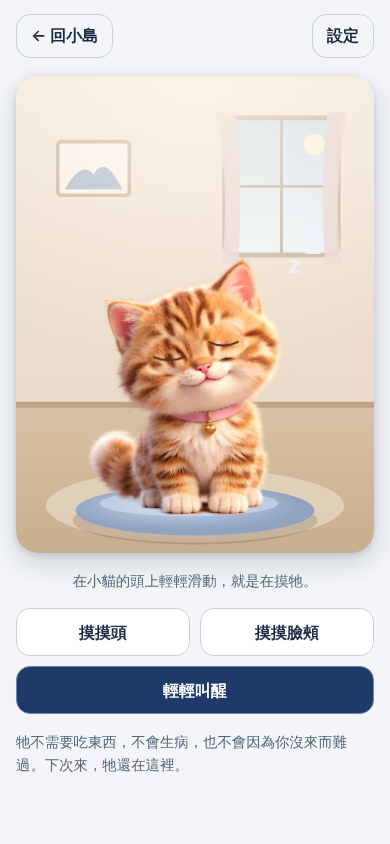
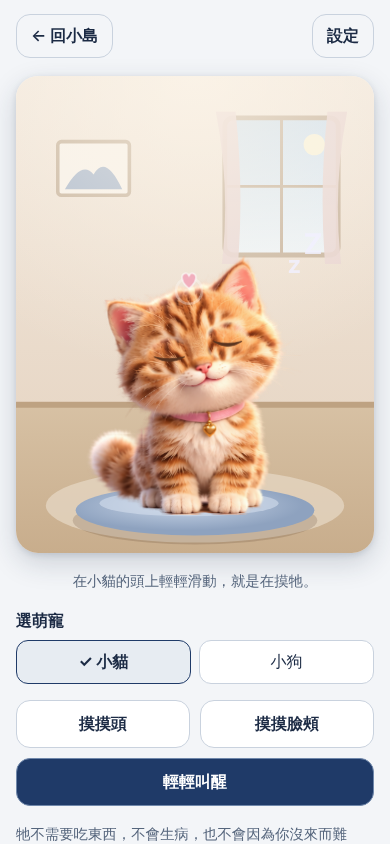
fix(companion): natural closed and smiling eyes
- Re-measure each eye (incl. dark rim) from the images; the cat's right
  eye was ~6 units off-centre
- Borrow the covering fur from fully above each eye (per-eye offset), so
  no part of the open eye shows through
- Draw closed eyes as tapered crescents; the happy ^ now peaks near the
  eye centre instead of floating like an eyebrow

Claude-Session: https://claude.ai/code/session_01Jd1MLeqydxjbdWgjn7akAn

diff --git a/src/features/companion/PetRig.tsx b/src/features/companion/PetRig.tsx
@@ -4,12 +4,13 @@ import { PET_IMAGE } from '../energy/ui/components/PetFigure';
 import type { Action, Mood, Reaction } from './useCompanionMood';
 
 // 2.5D 萌寵：同一張已核准的去背圖，以 clipPath 切成頭、身體、尾巴三層，
-// 分別繞關節點轉動；眼皮用同一張圖往下移的毛色蓋住眼睛，只用來眨眼、瞇眼與睡覺。不重繪、不換角色。
-interface Eye { cx: number; cy: number; rx: number; ry: number }
+// 分別繞關節點轉動；眼皮用同一張圖眼睛上方的毛色蓋住眼睛，只用來眨眼、瞇眼與睡覺。不重繪、不換角色。
+// 眼睛範圍依實際圖片量測（含深色眼眶）；from 是借用毛色的位移，必須讓借來的區域完全在眼睛上方。
+interface Eye { cx: number; cy: number; rx: number; ry: number; from: readonly [number, number] }
 interface RigSpec {
   x: number; y: number; // 在房間（600×800）裡的位置
   head: string; body: string; tail: string; // clip 多邊形（圖片座標）
-  eyes: readonly Eye[]; lidShift: number; lidPad: [number, number]; lidStroke: string; lidWidth: number;
+  eyes: readonly Eye[]; lidPad: readonly [number, number]; lidColor: string;
   // 觸摸區域：頭部橢圓與左右臉頰的分界
   headArea: { cx: number; cy: number; rx: number; ry: number; cheekY: number; cheekLeftX: number; cheekRightX: number; bodyY: number };
   origins: { breath: string; head: string; tail: string }; // CSS transform-origin
@@ -21,8 +22,8 @@ export const RIGS: Record<Pet, RigSpec> = {
     head: '0,0 361,0 361,252 262,262 200,286 128,282 0,262',
     body: '0,236 361,236 361,436 92,436 92,300 0,300',
     tail: '0,292 98,292 98,425 0,425',
-    eyes: [{ cx: 138, cy: 170, rx: 30, ry: 26 }, { cx: 229, cy: 146, rx: 28, ry: 26 }],
-    lidShift: 52, lidPad: [11, 9], lidStroke: '#5a3420', lidWidth: 3.5,
+    eyes: [{ cx: 138, cy: 171, rx: 29, ry: 24, from: [0, 62] }, { cx: 236, cy: 146, rx: 27, ry: 25, from: [18, 62] }],
+    lidPad: [13, 10], lidColor: '#5a3420',
     headArea: { cx: 190, cy: 150, rx: 150, ry: 125, cheekY: 175, cheekLeftX: 125, cheekRightX: 255, bodyY: 250 },
     origins: { breath: '190px 430px', head: '195px 268px', tail: '85px 385px' },
   },
@@ -32,8 +33,8 @@ export const RIGS: Record<Pet, RigSpec> = {
     head: '0,0 373,0 373,200 300,200 278,212 220,224 165,214 140,212 0,212',
     body: '0,190 373,190 373,436 0,436 0,404 78,404 82,372 90,350 90,270 0,270',
     tail: '0,270 90,270 90,350 82,372 78,404 0,404',
-    eyes: [{ cx: 170, cy: 111, rx: 14, ry: 16 }, { cx: 252, cy: 99, rx: 14, ry: 16 }],
-    lidShift: 34, lidPad: [7, 9], lidStroke: '#4a2c18', lidWidth: 2.6,
+    eyes: [{ cx: 170, cy: 108, rx: 15, ry: 13, from: [0, 40] }, { cx: 253, cy: 96, rx: 14, ry: 13, from: [0, 40] }],
+    lidPad: [7, 7], lidColor: '#4a2c18',
     headArea: { cx: 215, cy: 115, rx: 160, ry: 115, cheekY: 125, cheekLeftX: 150, cheekRightX: 280, bodyY: 205 },
     origins: { breath: '186px 430px', head: '220px 222px', tail: '88px 380px' },
   },
@@ -55,7 +56,18 @@ export function regionAt(x: number, y: number, pet: Pet = 'cat'): Region {
   return cy > a.bodyY ? 'body' : null;
 }
 
-// 眼皮：把同一張圖往下移，讓眼睛上方的真實毛色蓋住眼睛，再以羽化遮罩融入周圍，最後畫上閉眼的線。
+// 閉眼線畫成兩端尖、中間粗的彎月形，比等粗的線自然。
+// 開心是「^」笑眼，弧頂略高於眼睛中心；睡覺與眨眼是往下彎的「‿」。
+function closedEye(eye: Eye, happy: boolean) {
+  const half = eye.rx * 0.88; const t = eye.ry * 0.2;
+  const left = eye.cx - half; const right = eye.cx + half;
+  const [endY, ctrlY, inner] = happy
+    ? [eye.cy + eye.ry * 0.12, eye.cy - eye.ry * 0.78, 2 * t]
+    : [eye.cy - eye.ry * 0.05, eye.cy + eye.ry * 0.6, -2 * t];
+  return `M ${left} ${endY} Q ${eye.cx} ${ctrlY} ${right} ${endY} Q ${eye.cx} ${ctrlY + inner} ${left} ${endY} Z`;
+}
+
+// 眼皮：借用眼睛上方的真實毛色蓋住眼睛，以羽化遮罩融入周圍，再畫上閉眼線。
 function Lids({ pet, mood, blink }: { pet: Pet; mood: Mood; blink: boolean }) {
   if (mood === 'idle' && !blink) return null;
   const rig = RIGS[pet]; const image = PET_IMAGE[pet];
@@ -63,17 +75,12 @@ function Lids({ pet, mood, blink }: { pet: Pet; mood: Mood; blink: boolean }) {
   return (
     <g className="rig-lids">
       {rig.eyes.map((eye, i) => {
-        const inset = eye.rx * 0.13;
-        const left = eye.cx - eye.rx + inset; const right = eye.cx + eye.rx - inset;
-        const line = happy
-          ? `M ${left} ${eye.cy + eye.ry * 0.23} Q ${eye.cx} ${eye.cy - eye.ry * 0.55} ${right} ${eye.cy + eye.ry * 0.23}`
-          : `M ${left} ${eye.cy} Q ${eye.cx} ${eye.cy + eye.ry * 0.45} ${right} ${eye.cy}`;
         return (
           <g key={eye.cx}>
             <g mask={`url(#rig-${pet}-eye-mask-${i})`}>
-              <image href={image.src} width={image.width} height={image.height} transform={`translate(0 ${rig.lidShift})`} />
+              <image href={image.src} width={image.width} height={image.height} transform={`translate(${eye.from[0]} ${eye.from[1]})`} />
             </g>
-            <path d={line} fill="none" stroke={rig.lidStroke} strokeWidth={rig.lidWidth} strokeLinecap="round" />
+            <path d={closedEye(eye, happy)} fill={rig.lidColor} stroke={rig.lidColor} strokeWidth={eye.ry * 0.05} strokeLinejoin="round" />
           </g>
         );
       })}

diff --git a/docs/DECISIONS.md b/docs/DECISIONS.md
@@ -104,3 +104,4 @@
   - 睡著時被摸到只會輕輕醒來伸懶腰（不冒愛心、不發聲）；「輕輕叫醒」也會伸懶腰。
   - 支援的手機上，手指按下時輕震 8ms；減少動態時不震。
 - 減少動態：不做蹭、扭、跳、漣漪與愛心上升，愛心只在原地淡入淡出。
+- 使用者回饋「笑眼很奇怪」：依實際圖片重新量測眼睛範圍（含深色眼眶），並讓借來覆蓋的毛色完全取自眼睛上方，閉眼時不再透出原本的眼睛；閉眼線改為兩端尖、中間粗的彎月形，笑眼「^」的弧頂落在眼睛中心附近，不再像浮在上方的眉毛。
